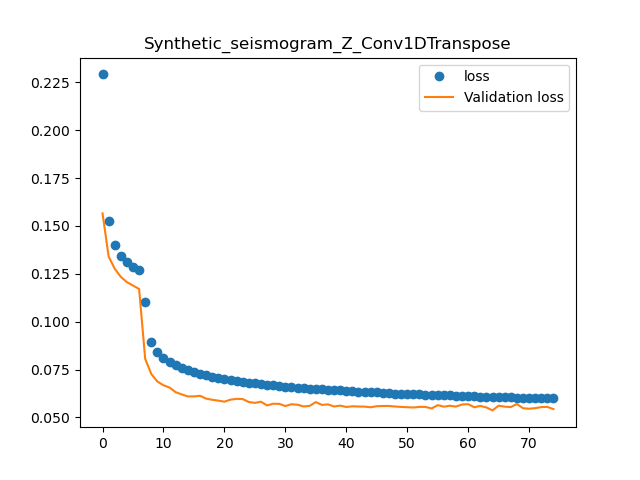
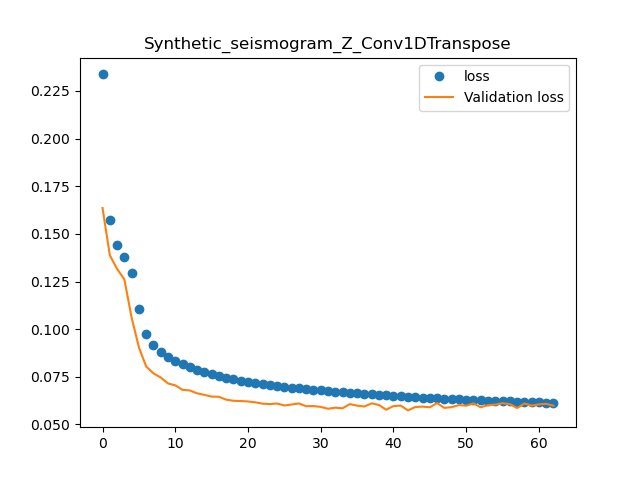
update

diff --git a/autoencoder_denoise_test.py b/autoencoder_denoise_test.py
@@ -192,6 +192,34 @@ def autoencoder_test_Conv1DTranspose_ENZ():
 
     return model
 
+def autoencoder_test_Conv1DTranspose_ENZ2():
+    # use Conv1DTranspose instead
+    model = Sequential()
+    model.add(Conv1D(8, 7, padding='same', activation='relu', input_shape=X_train.shape[1:]))
+    model.add(MaxPooling1D(2)) #300
+    model.add(Conv1D(16, 7, padding='same', activation='relu'))
+    model.add(MaxPooling1D(2)) #150
+    model.add(Conv1D(16, 5, padding='same', activation='relu'))
+    model.add(MaxPooling1D(2)) #75
+    model.add(Conv1D(32, 3, padding='same', activation='relu'))
+    model.add(MaxPooling1D(3, padding='same')) #25
+    model.add(Dropout(rate=0.1))
+    model.add(Bidirectional(LSTM(units=16, return_sequences=True, dropout=0.1)))
+    model.add(LSTM(units=16, return_sequences=True))
+    model.add(UpSampling1D(3)) #75
+    model.add(Conv1DTranspose(32, 3, padding='same', activation='relu'))
+    model.add(UpSampling1D(2)) #152
+    model.add(Conv1DTranspose(16, 5, padding='same', activation='relu'))
+    model.add(UpSampling1D(2)) #300
+    model.add(Conv1DTranspose(16, 7, padding='same', activation='relu'))
+    model.add(UpSampling1D(2)) #600
+    model.add(Conv1DTranspose(8, 7, padding='same', activation='relu'))
+    model.add(Conv1DTranspose(3, 7, padding='same'))
+    model.add(LeakyReLU(alpha=0.5))
+
+    return model
+
+#model = autoencoder_test_Conv1DTranspose_ENZ2()
 model = autoencoder_test_Conv1DTranspose_ENZ()
 #model = autoencoder_test_Conv1DTranspose2()
 #model = autoencoder_test1()
@@ -205,7 +233,7 @@ model.compile(loss='mean_squared_error',
 # %% train the model
 from keras.callbacks import EarlyStopping
 
-early_stopping_monitor = EarlyStopping(monitor='val_loss', patience=10)
+early_stopping_monitor = EarlyStopping(monitor='val_loss', patience=20)
 model_train = model.fit(X_train, Y_train,
                         batch_size=BATCH_SIZE,
                         epochs=EPOCHS,
